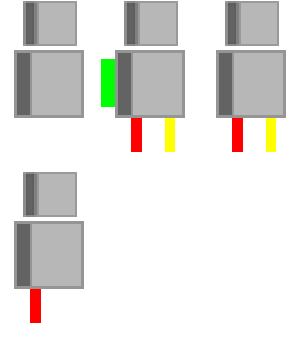
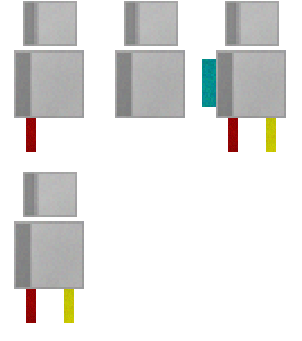
updated cutscene assets and fixed bug where player couldn't leave first level without spacebar

diff --git a/Keep-It-Together-master/phaser/myGame/js/player.js b/Keep-It-Together-master/phaser/myGame/js/player.js
@@ -8,7 +8,6 @@ function Player (game, key, frame) {
 	this.body.immovable = false;
 
 	var canJump = false;
-	var noArms = false;
 	
 	limbs = game.add.group(); // gotta have a ground to stand on
 	limbs.enableBody = true; // gotta make the ground stand on-able
@@ -30,13 +29,10 @@ function Player (game, key, frame) {
     lLeg.scale.setTo(1, 1.5);
 	}
 
-
-	
 		game.physics.arcade.enable(this); // add physics to the playa
-		this.body.gravity.y = 450; // succumb to gravity mortal fool
+		this.body.gravity.y = 450; // change this to a var for water level gravity change
 		this.body.collideWorldBounds = true; // don't fall through the earth
 
-	
 	}
 Player.prototype = Object.create(Phaser.Sprite.prototype);
 Player.prototype.constructor = Player;
@@ -45,47 +41,49 @@ Player.prototype.update = function(){
 	
 	var cursors = game.input.keyboard.createCursorKeys();
 	
-	/*
-	if(cursors.){
-	//spacebar is pressed remove limb
-	
+/* 	if(level == 1 && rArmOn == true){
+		if(Phaser.Keyboard.SPACEBAR.isDown){//spacebar is pressed remove limb
+			rArmOn = false;
+		}
 	}
-	
-	else{
-		*/
+	else{ */
 		rArm.x = player.x + 32;
 		rArm.y = player.y;
+	//}
+		
 		lArm.x = player.x - 41;
 		lArm.y = player.y;
+		
 		rLeg.x = player.x + 17;
 		rLeg.y = player.y + 42;
+		
 		lLeg.x = player.x - 24;
 		lLeg.y = player.y + 42;
 	//}
 
 	if(lLegOn != true){//no limbs
 		this.body.setSize(32,53,0,0);
-		//decrease velocity
+		playerVel = 50; //decrease velocity
 	}
 	else if(rLegOn != true){//no right legL
 		this.body.setSize(32,67,0,0);//same as no arms
-		//decrease velocity
+		playerVel = 70; //decrease velocity
 	}
 	else if(lArmOn != true){// no arms
 		this.body.setSize(32,67,0,0);
-		//decrease velocity
+		playerVel = 90; //decrease velocity
 	}
 	else if(rArmOn != true){// no right armL
 		this.body.setSize(38,67,-6,0);
-		//decrease velocity
+		playerVel = 110; //decrease velocity
 	}
 	else{//all limbs
 		this.body.setSize(43,67,-6,0);
-		//set velocity
+		playerVel = 150 //set velocity
 	}
 	
-	
-	
+	// P L A Y E R  M O V E M E N T
+	// J U M P
 	if(cursors.up.isDown && player.body.onFloor())
     { //press up to jump (taken from phaser.io example code)
     if(canJump == true)
@@ -95,30 +93,26 @@ Player.prototype.update = function(){
         canJump = false;
         }
     }
-
     // makes it so you have to press up each time you want to jump
     if(cursors.up.isUp)
     {
         canJump = true;
-
     }
 	
-	
+	// W A L K I N G
 	if (cursors.left.isDown){
 		//  go left
-		player.body.velocity.x = -150;
+		player.body.velocity.x = -playerVel;
 	}
 	
 	else if (cursors.right.isDown){
 		//  go right
-		player.body.velocity.x = 150;
+		player.body.velocity.x = playerVel;
 	}
 	
 	else {
-		//  go right
+		//  don't move
 		player.body.velocity.x = 0;
 	}
 	
 }
-
-

diff --git a/Keep-It-Together-master/phaser/myGame/js/main.js b/Keep-It-Together-master/phaser/myGame/js/main.js
@@ -3,7 +3,7 @@ var game = new Phaser.Game(800, 500, Phaser.AUTO);
 //var game = new Phaser.Game(800, 500, Phaser.AUTO, 'Keep It Together', { preload: preload, create: create, update: update, render: render });
 
 // P L A Y E R
-var playerV = 10; //changable for each level
+var playerVel = 150;
 var player;
 var cutscene;
 var size;
@@ -18,6 +18,7 @@ var rLegOn;
 var lLeg;
 var lLegOn;
 
+// L E V E L  T R A C K E R 
 var level;
 
 // O B S T A C L E S
@@ -71,11 +72,9 @@ level1.prototype = {
 		music2 = game.add.audio('glitch1',0,true);
 		music3 = game.add.audio('glitch2',0,true);
 		music4 = game.add.audio('glitch3',0,true);
-		
 		thud = game.add.audio('thudSFX', 1, false);
 		jumping = game.add.audio('paperTap',1,false);
 		
-
         player = new Player(game, 'guy', 'Body');	
         game.add.existing(player);
 
@@ -143,7 +142,7 @@ level1.prototype = {
 				//  Pause music/sfx
 				 walking.pause();
 			}
-			if(game.input.keyboard.isDown(Phaser.Keyboard.SPACEBAR) || player.x > 760)
+			if(game.input.keyboard.isDown(Phaser.Keyboard.SPACEBAR) || player.x > 735)
 			{
 				game.state.start('load2')
 				rArmOn = false;
@@ -151,11 +150,11 @@ level1.prototype = {
 			}
 	},
 	
-	render: function() {
+/* 	render: function() {
 		// setup debug rendering
 			game.debug.bodyInfo(player, 32, 32);
 			game.debug.body(player);
-	},
+	}, */
 	
 
 }
@@ -281,11 +280,11 @@ level2.prototype = {
 		
 
 	},
-		render: function() {
+/* 		render: function() {
 		// setup debug rendering
 			game.debug.bodyInfo(player, 32, 32);
 			game.debug.body(player);
-	},
+	}, */
 	}
 
 
@@ -408,11 +407,11 @@ level3.prototype = {
 				level = level +1;
 			}
 	},
-			render: function() {
+/* 			render: function() {
 		// setup debug rendering
 			game.debug.bodyInfo(player, 32, 32);
 			game.debug.body(player);
-	},
+	}, */
 	}
 
 
@@ -536,11 +535,11 @@ level4.prototype = {
 		
 
 	},
-			render: function() {
+/* 			render: function() {
 		// setup debug rendering
 			game.debug.bodyInfo(player, 32, 32);
 			game.debug.body(player);
-	},
+	}, */
 	}
 
 //travel cutscene---------------------------------------------------------------------------
@@ -680,12 +679,12 @@ level5.prototype = {
 
 	},
 	
-		render: function() {
+/* 		render: function() {
 		// setup debug rendering
 			game.debug.bodyInfo(player, 32, 32);
 			game.debug.body(player);
 	},
-	
+	 */
 	
 	}
 

diff --git a/Keep-It-Together-master/phaser/myGame/js/cutscenePlayer.js b/Keep-It-Together-master/phaser/myGame/js/cutscenePlayer.js
@@ -13,7 +13,6 @@ function Cutscene (game, key, frame) {
 		this.body.gravity.y = 175; // succumb to gravity mortal fool
 		this.body.collideWorldBounds = false; // don't fall through the earth
 
-	
 	}
 Cutscene.prototype = Object.create(Phaser.Sprite.prototype);
 Cutscene.prototype.constructor = Cutscene;
